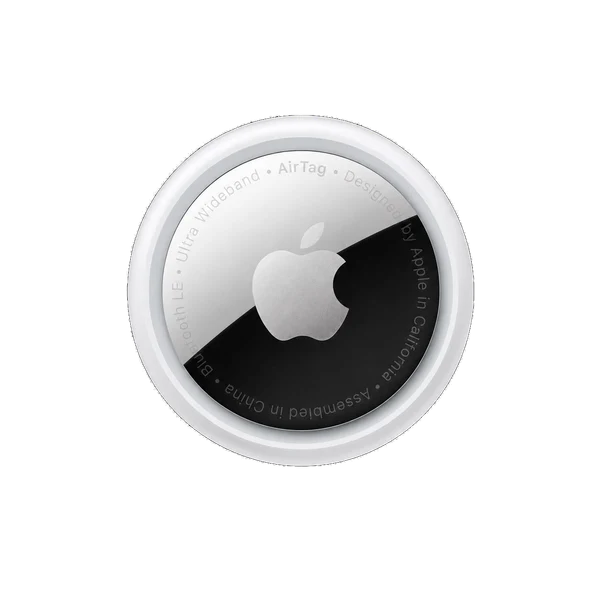
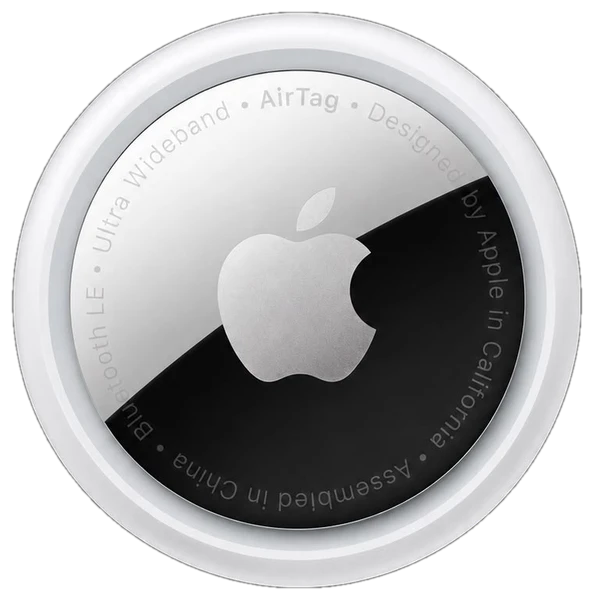
Accesorios por defecto: 5 fotos nuevas + AirPods Pro 2/3 separados + 4 accesorios nuevos
- Refotografiadas con mejor calidad (mismo archivo, sin cambios en la
  base): AirTag, auriculares con cable, cargador de Apple Watch, cargador
  cabezal+cable, protector de cámara.
- "AirPods Pro" (genérico) era en realidad la foto de los Pro 3 — ahora
  quedan como dos accesorios separados: AirPods Pro 2 y AirPods Pro 3.
- Nuevos: Cabezal 20W, Cable USB-C a Lightning, Funda transparente, Funda
  MagSafe.
- El adaptador de enchufe nuevo NO se pudo procesar limpio (el plástico
  del objeto es casi tan oscuro como su propio fondo — un umbral de color
  no alcanza para separarlos sin comerse el objeto) — se mantuvo la foto
  anterior, que ya estaba bien.

diff --git a/app/stock/page.tsx b/app/stock/page.tsx
@@ -58,13 +58,20 @@ type Producto = { id: string; nombre: string; precio: number | null; costo: numb
 // por defecto" — se insertan sin precio/costo/cantidad (el dueño los completa
 // después); las fotos viven en /public así no pesan la base de datos.
 const ACCESORIOS_DEFAULT: { nombre: string; imagen: string }[] = [
-  { nombre: 'AirPods Pro', imagen: '/accesorios-default/airpods-pro.webp' },
+  // La foto vieja de "AirPods Pro" (genérica) en realidad era la Pro 3 —
+  // ahora quedan separados porque no son el mismo accesorio.
+  { nombre: 'AirPods Pro 2', imagen: '/accesorios-default/airpods-pro-2.webp' },
+  { nombre: 'AirPods Pro 3', imagen: '/accesorios-default/airpods-pro-3.webp' },
   { nombre: 'AirTag', imagen: '/accesorios-default/airtag.webp' },
   { nombre: 'Auriculares con cable (Lightning)', imagen: '/accesorios-default/auriculares-cable.webp' },
   { nombre: 'Cargador (cabezal + cable USB-C)', imagen: '/accesorios-default/cargador-cabezal-cable.webp' },
+  { nombre: 'Cabezal 20W', imagen: '/accesorios-default/cabezal-20w.webp' },
+  { nombre: 'Cable USB-C a Lightning', imagen: '/accesorios-default/cable-usb-c-lightning.webp' },
   { nombre: 'Cargador de Apple Watch', imagen: '/accesorios-default/cargador-apple-watch.webp' },
   { nombre: 'Adaptador de enchufe', imagen: '/accesorios-default/adaptador-enchufe.webp' },
   { nombre: 'Protector de cámara', imagen: '/accesorios-default/protector-camara.webp' },
+  { nombre: 'Funda transparente', imagen: '/accesorios-default/funda-transparente.webp' },
+  { nombre: 'Funda MagSafe', imagen: '/accesorios-default/funda-magsafe.webp' },
 ];
 
 type FiltroRapido = 'todos' | 'bateria_baja' | 'sellados' | 'por_reponer' | 'sin_precio' | 'sin_costo' | 'incompletos';
